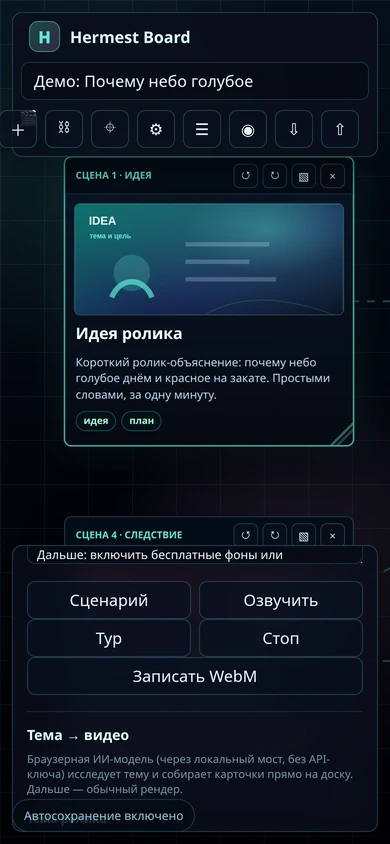
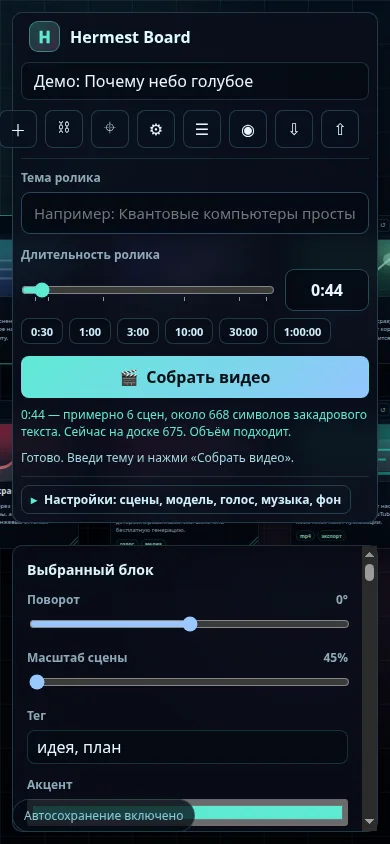
refresh the README for the top command bar
The screenshots and the wizard section still described a side panel that
no longer exists; both shots are retaken from the current build.

diff --git a/README.md b/README.md
@@ -41,10 +41,10 @@ From the running app (Russian UI — an English UI is not shipped yet).
 | <a href="docs/media/screenshot-first-run.webp"><img src="docs/media/screenshot-first-run.webp" width="100%" alt="First-run overlay 'Из темы — в готовое видео' with four mode chips and a topic field"></a> | <a href="docs/media/screenshot-board.webp"><img src="docs/media/screenshot-board.webp" width="100%" alt="Demo board 'Почему небо голубое' with six scene cards and the inspector panel"></a> |
 | Onboarding overlay on first open: one topic field, and the four ways to run the product — local & free, free key, own key (BYOK), cloud if you want it. Footer states that nothing leaves the machine without your action. | Demo project «Почему небо голубое»: six scene cards on the canvas, and the right inspector with block transform controls plus the project Plan / Roadmap / Video tabs. Auto-save is on. |
 
-| «Тема → видео» wizard | Mobile |
+| Top command bar | Mobile |
 |:--|:--|
-| <a href="docs/media/screenshot-topic-to-video.webp"><img src="docs/media/screenshot-topic-to-video.webp" width="100%" alt="'Тема → видео' side panel with topic, scene count, source search and AI model selector"></a> | <a href="docs/media/screenshot-mobile.webp"><img src="docs/media/screenshot-mobile.webp" width="220" alt="Board on a 390×844 mobile viewport"></a> |
-| The wizard panel: topic, number of scenes, "search sources" toggle, and the AI-model selector (browser bridge or any OpenAI-compatible API). The panel is explicit that real local MP4 rendering only works under `npm run dev`, where the private FFmpeg worker runs. | 390×844 viewport. The header toolbar wraps onto its own row and the side panel stacks below the canvas — one column, no horizontal scrolling. |
+| <a href="docs/media/screenshot-topic-to-video.webp"><img src="docs/media/screenshot-topic-to-video.webp" width="100%" alt="Top command bar with a topic field, a free duration slider, an m:ss box and one build button"></a> | <a href="docs/media/screenshot-mobile.webp"><img src="docs/media/screenshot-mobile.webp" width="220" alt="Top command bar stacked into one column on a 390×844 mobile viewport"></a> |
+| The permanent top bar: topic field, a free duration slider (15 s … 60 min) with an `m:ss` box and quick marks, and one build button. Under it — how much narration the chosen length needs versus how much the board holds. Scene count, model, BYOK, voice, music and B-roll sit in the collapsed "Настройки" block. | 390×844 viewport. The command bar stacks into one column, the side panel moves below the canvas — no horizontal scrolling. |
 
 ---
 
@@ -121,10 +121,14 @@ Legend: ✅ VERIFIED (tested, works) · 🚧 PARTIAL (skeleton/foundation exists
 Перетаскивание/поворот/масштаб карточек, связи между узлами, фото на карточку, редактирование
 текста на месте, план и roadmap проекта, авто-тур с озвучкой, автосохранение и экспорт/импорт JSON.
 
-### Wizard «тема → видео»
-Панель **«Тема → видео»**: вводишь тему → ИИ-модель исследует источники и раскладывает карточки
-прямо на доску. Драфт **асинхронный** (ставится в очередь и опрашивается — долгие reasoning-чаты
-не вешают интерфейс), с отменой. Модель выбирается в панели:
+### Командная строка «тема → видео»
+Постоянная **верхняя строка**: поле темы, свободный ползунок длительности (15 с … 60 мин, шаг
+1 с на коротких роликах) с полем ручного ввода `м:сс` и одна кнопка. Enter запускает сборку:
+ИИ-модель исследует источники и раскладывает карточки прямо на доску. Число сцен считает система
+из выбранной длительности; ручное переопределение и остальные параметры — в свёрнутом блоке
+«Настройки». Под ползунком видно, сколько закадрового текста требует выбранная длительность и
+сколько его есть сейчас. Драфт **асинхронный** (ставится в очередь и опрашивается — долгие
+reasoning-чаты не вешают интерфейс), с отменой. Модель выбирается в «Настройках»:
 
 - **браузерный мост** (без API-ключа) — ChatGPT / Gemini / DeepSeek / Perplexity через локальный
   `browser-ai-bridge`, где «ключом» служит залогиненная вкладка Chrome;
